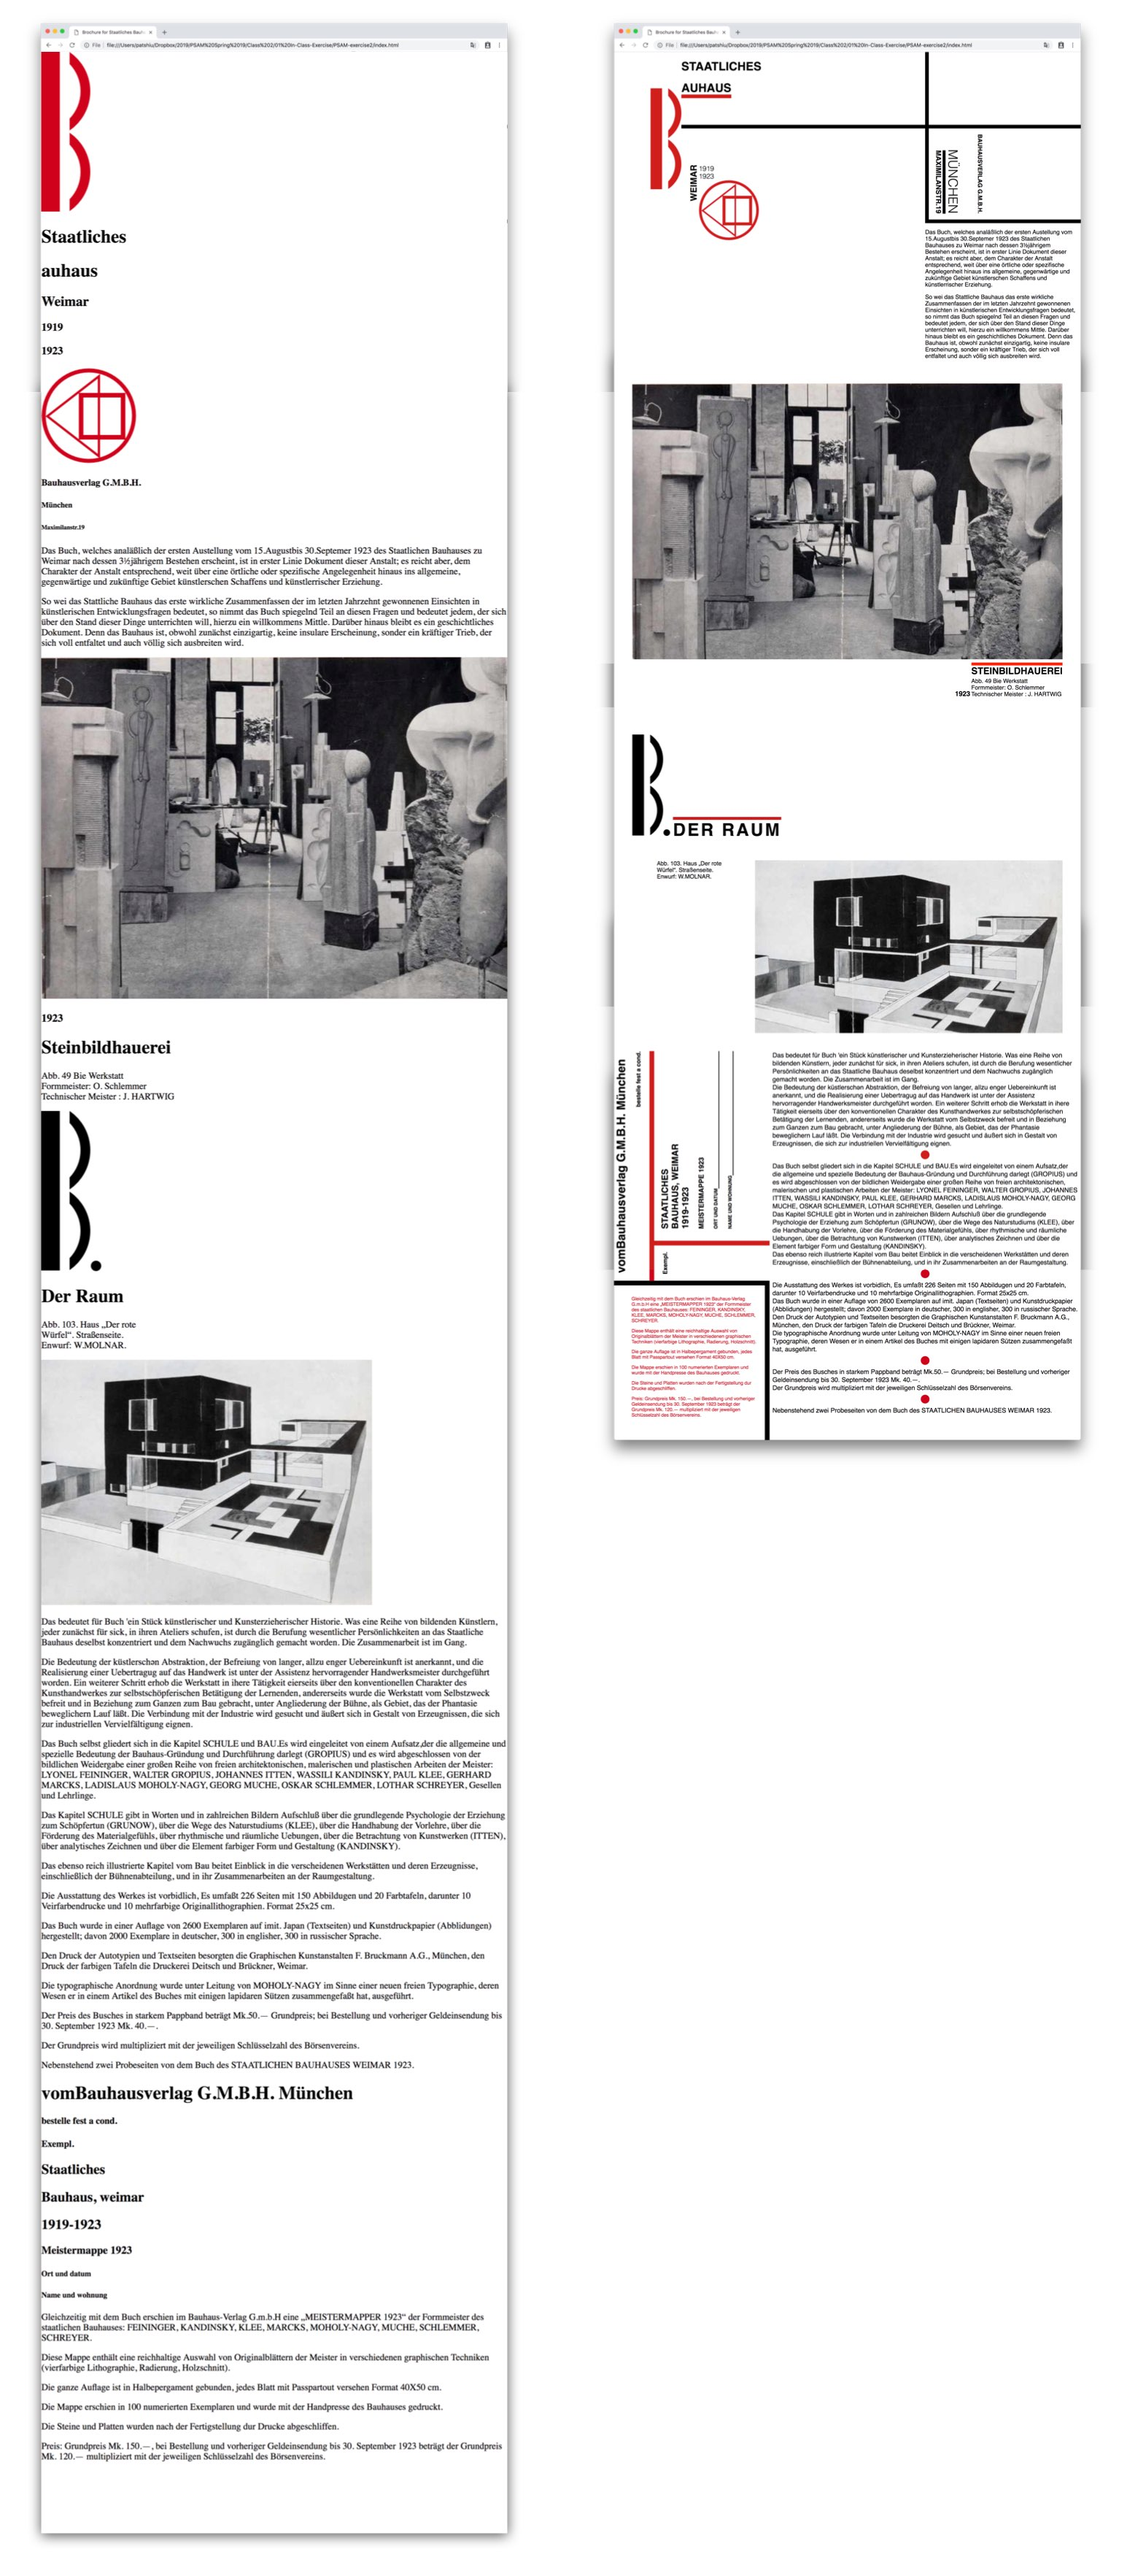
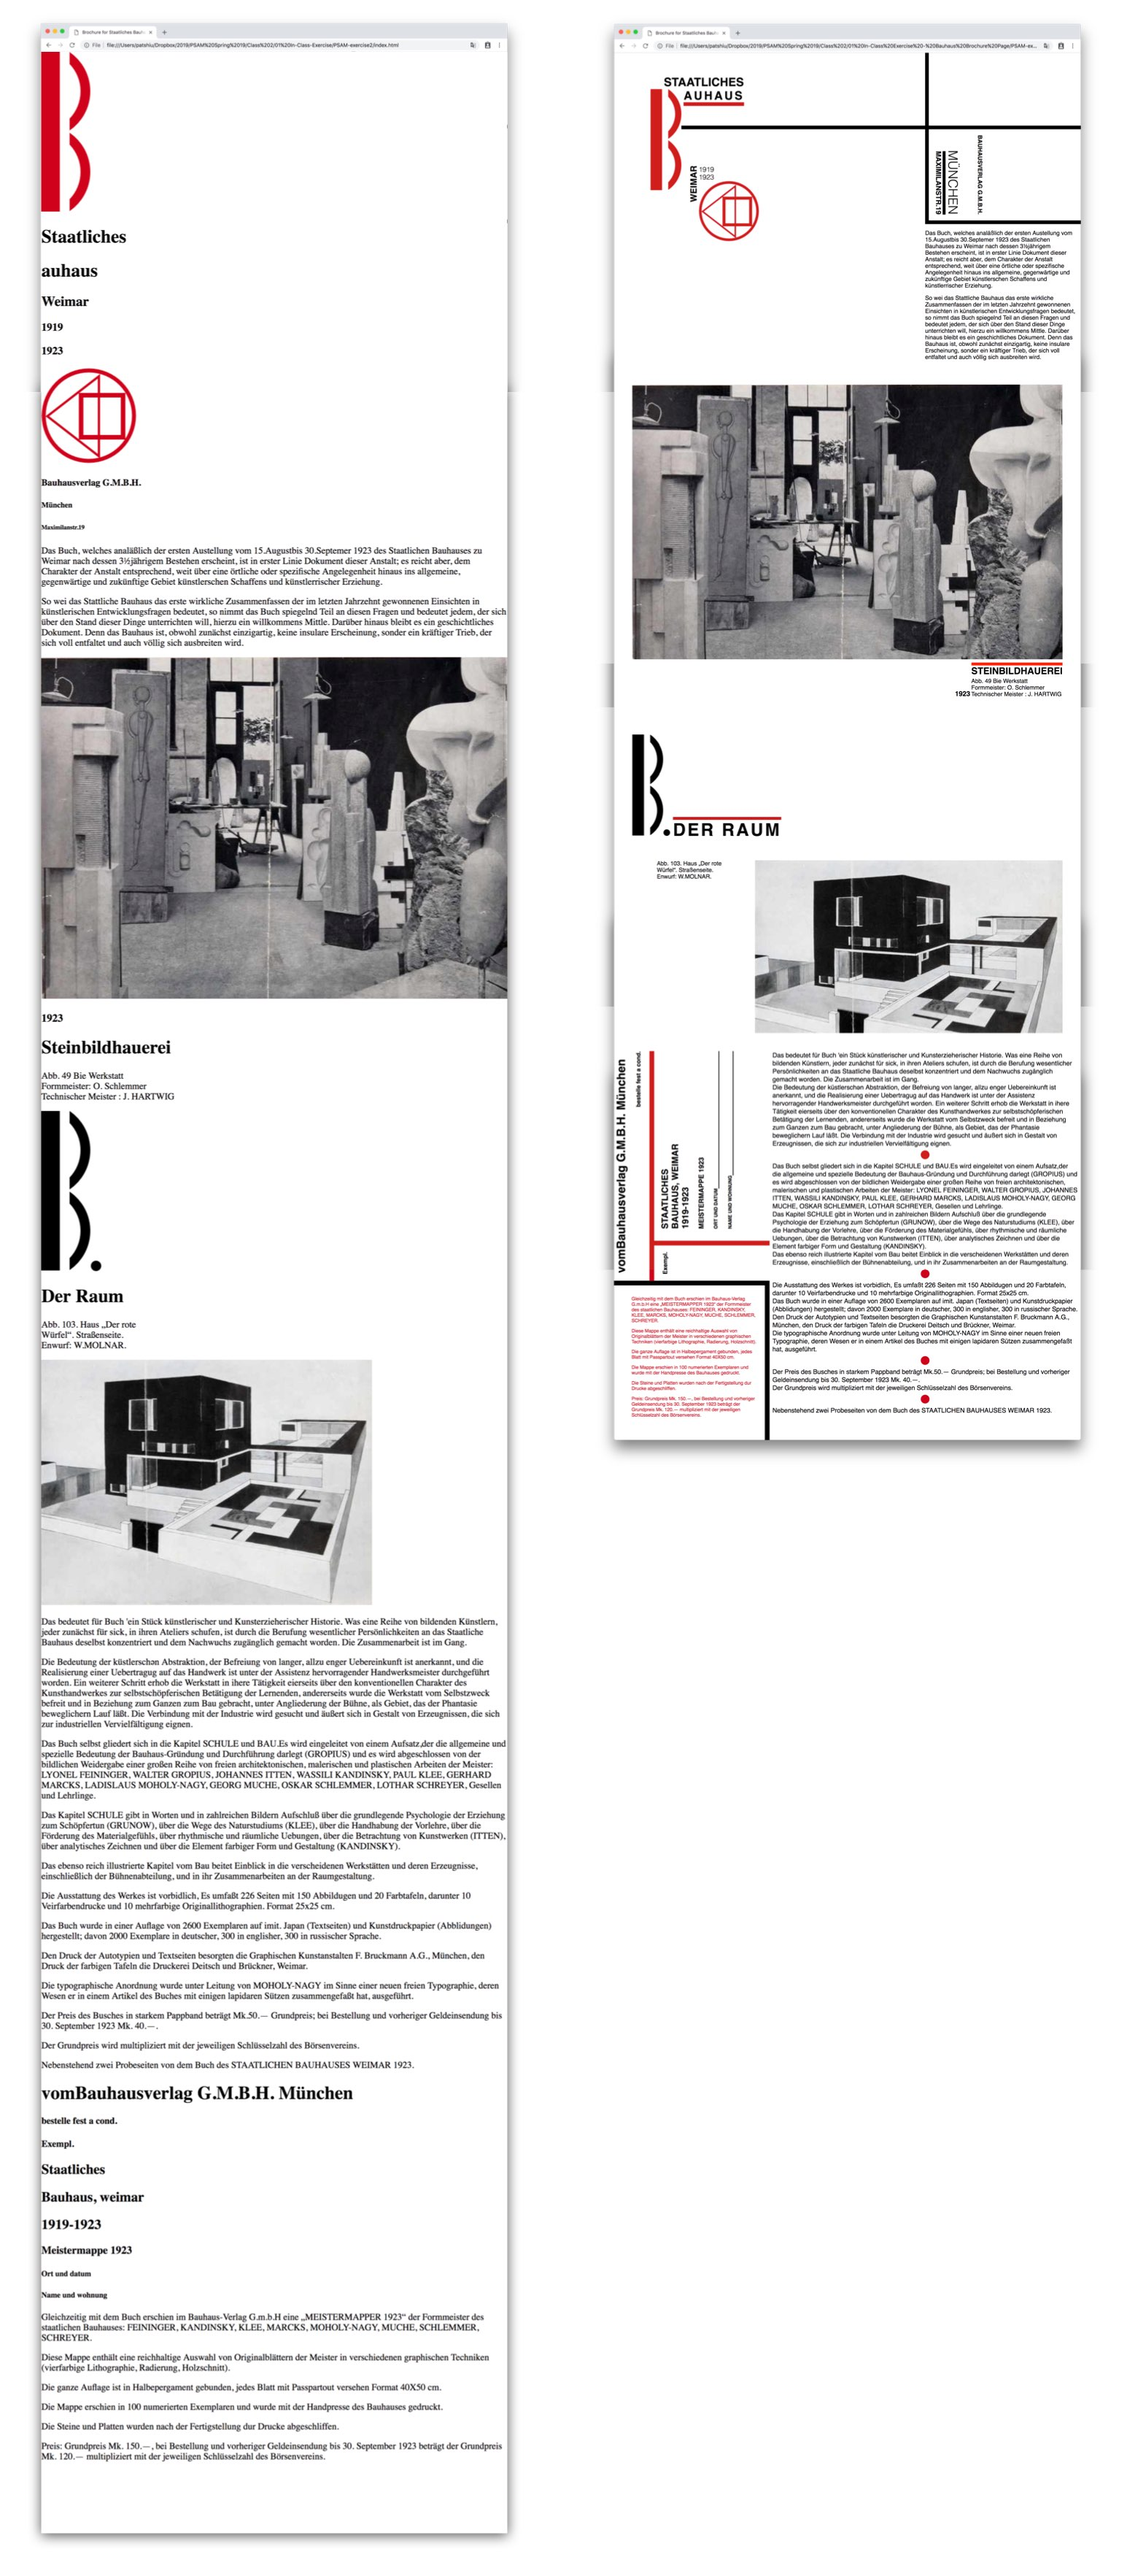
Tweak to main title.

Changed region(s): [[0.8078, 0.0312, 0.9631, 0.1559], [0.5903, 0.0, 0.6835, 0.0935]]

diff --git a/css/main.css b/css/main.css
@@ -49,13 +49,28 @@ body {
   flex-direction: column;
   align-items: stretch;
 }
+#title-area h1 {
+  margin: 0 0.4rem;
+}
 #title-area h1:nth-child(2) span {
   border-bottom: 10px solid #D0021B;
+}
+
+#title-area h1:nth-child(1) {
+  margin-left: -3rem;
+}
+#title-area h1:nth-child(2) {
+  letter-spacing: 0.3rem;
+  margin-bottom: 4rem;
 }
 
 #title-top {
   height: 200px;
   border-bottom: 10px solid black;
+  display: flex;
+  flex-direction: column;
+  justify-content: flex-end;
+
 }
 #title-bottom {
   padding-top: 100px;
